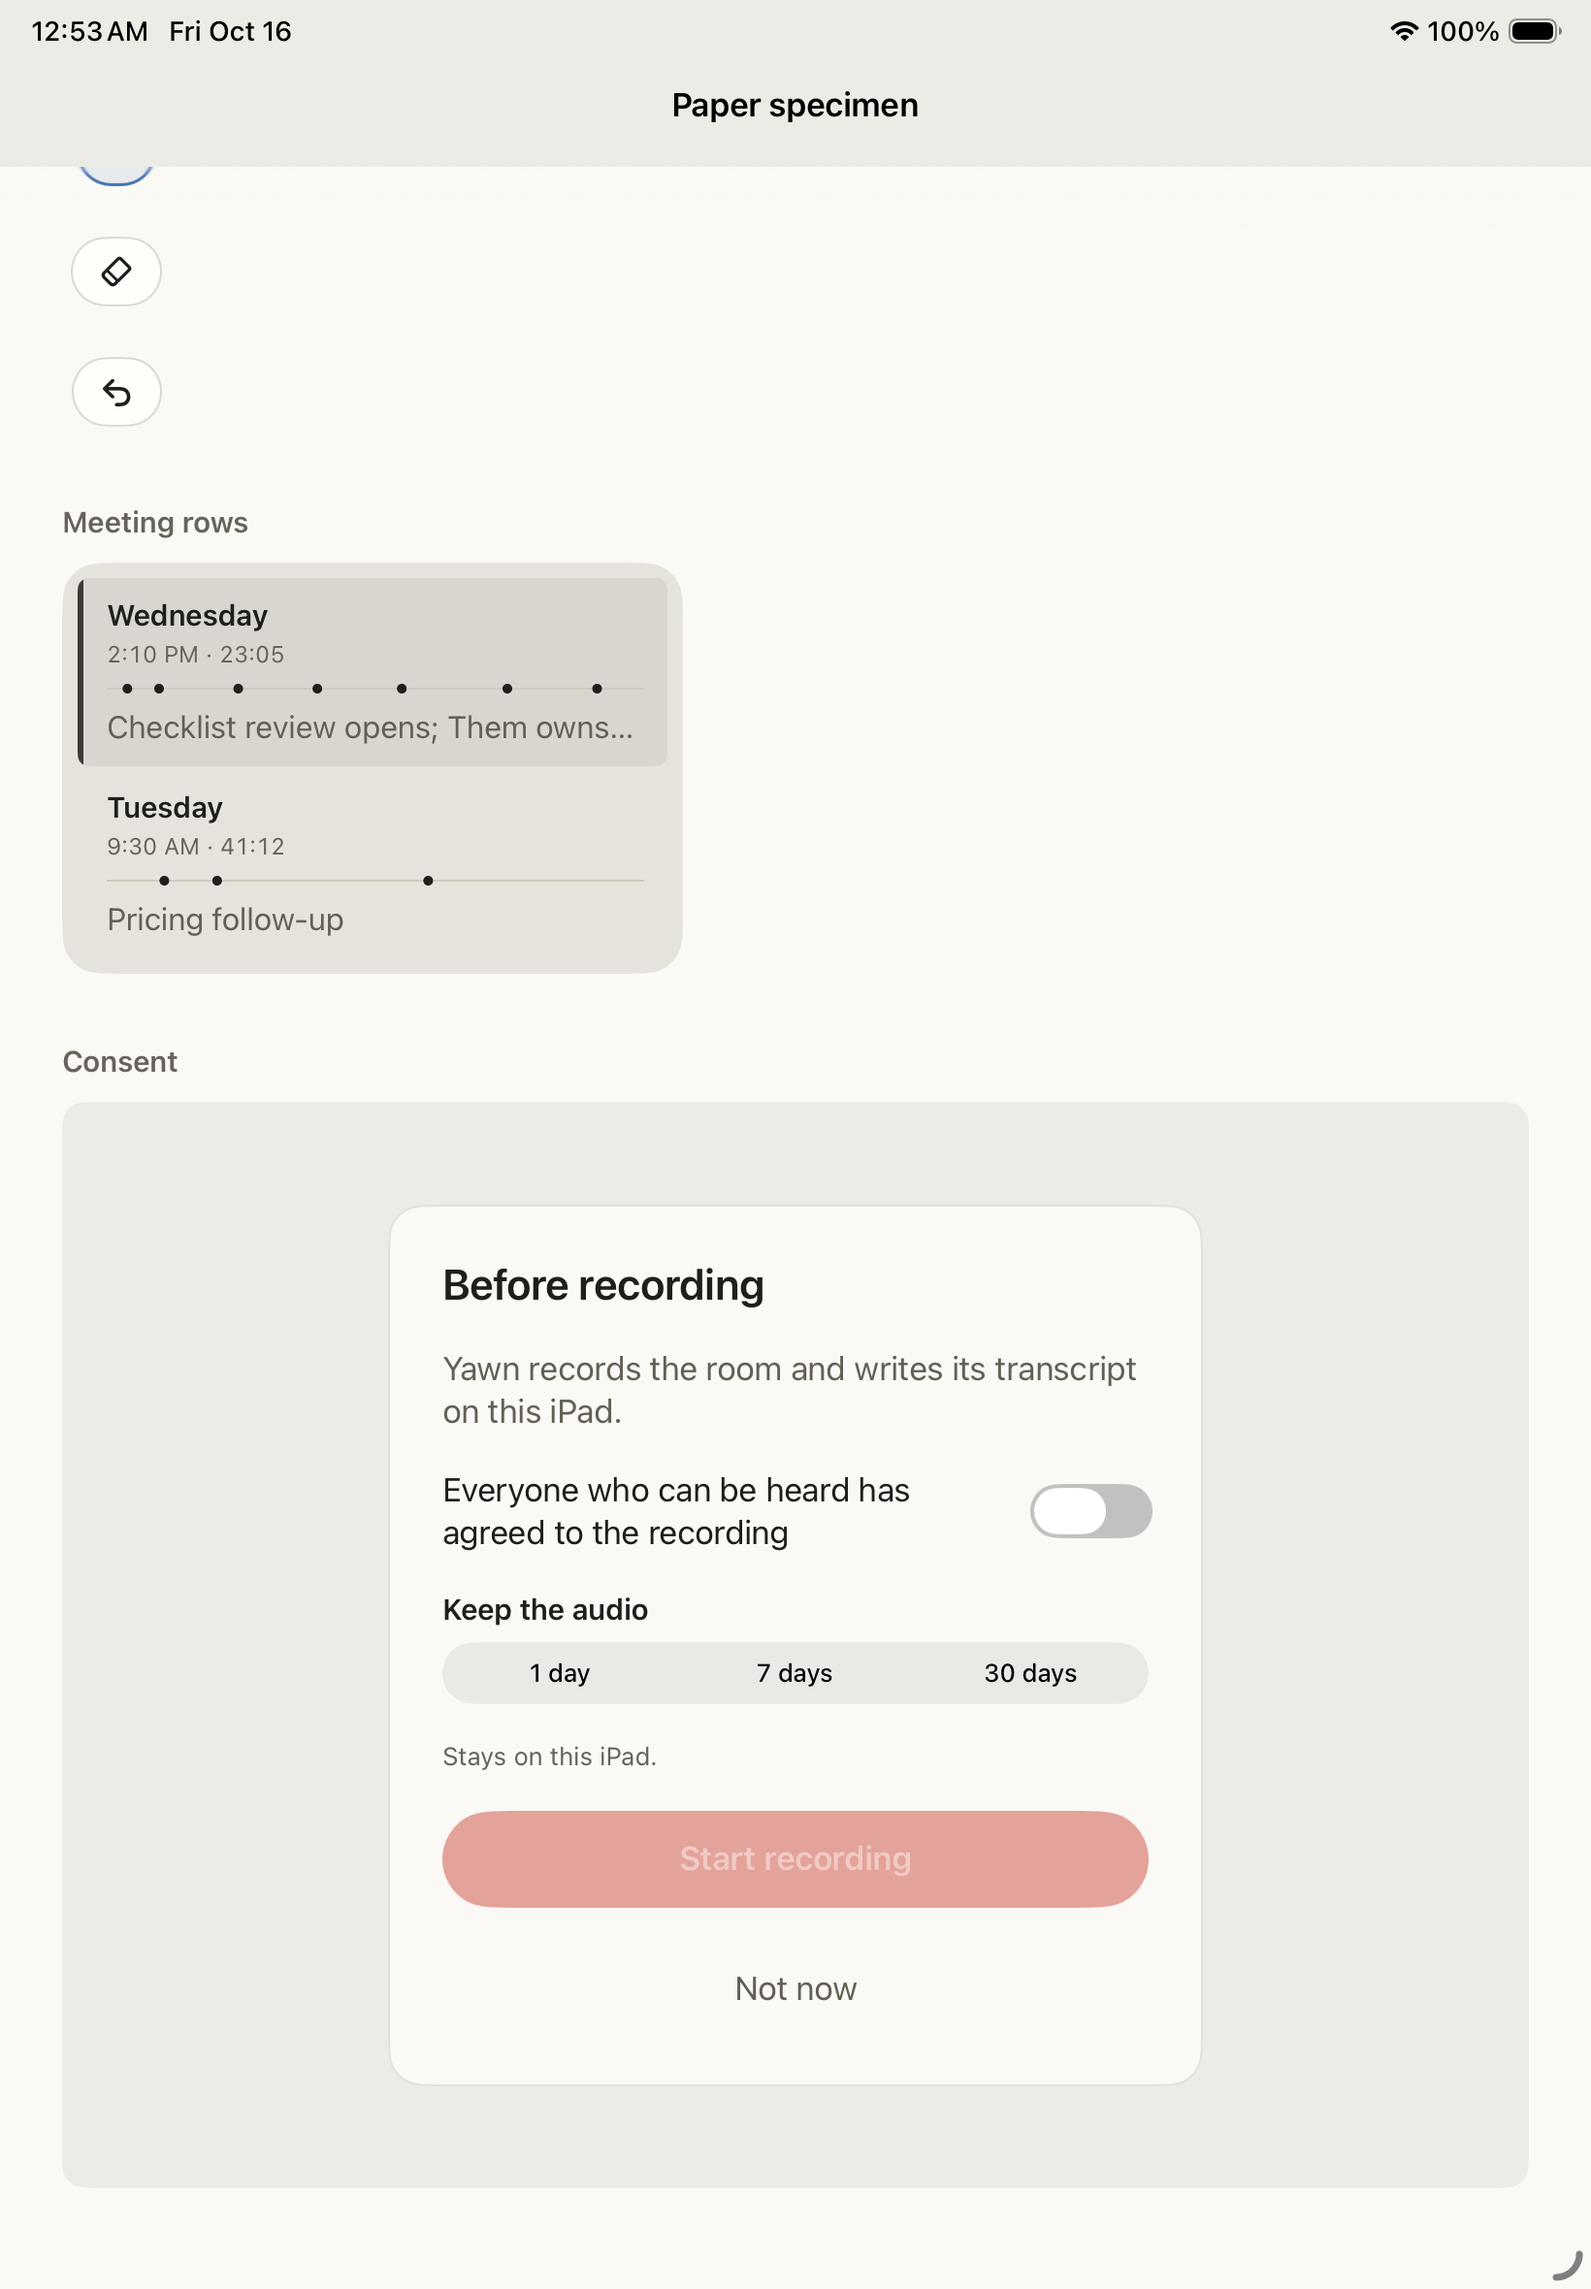
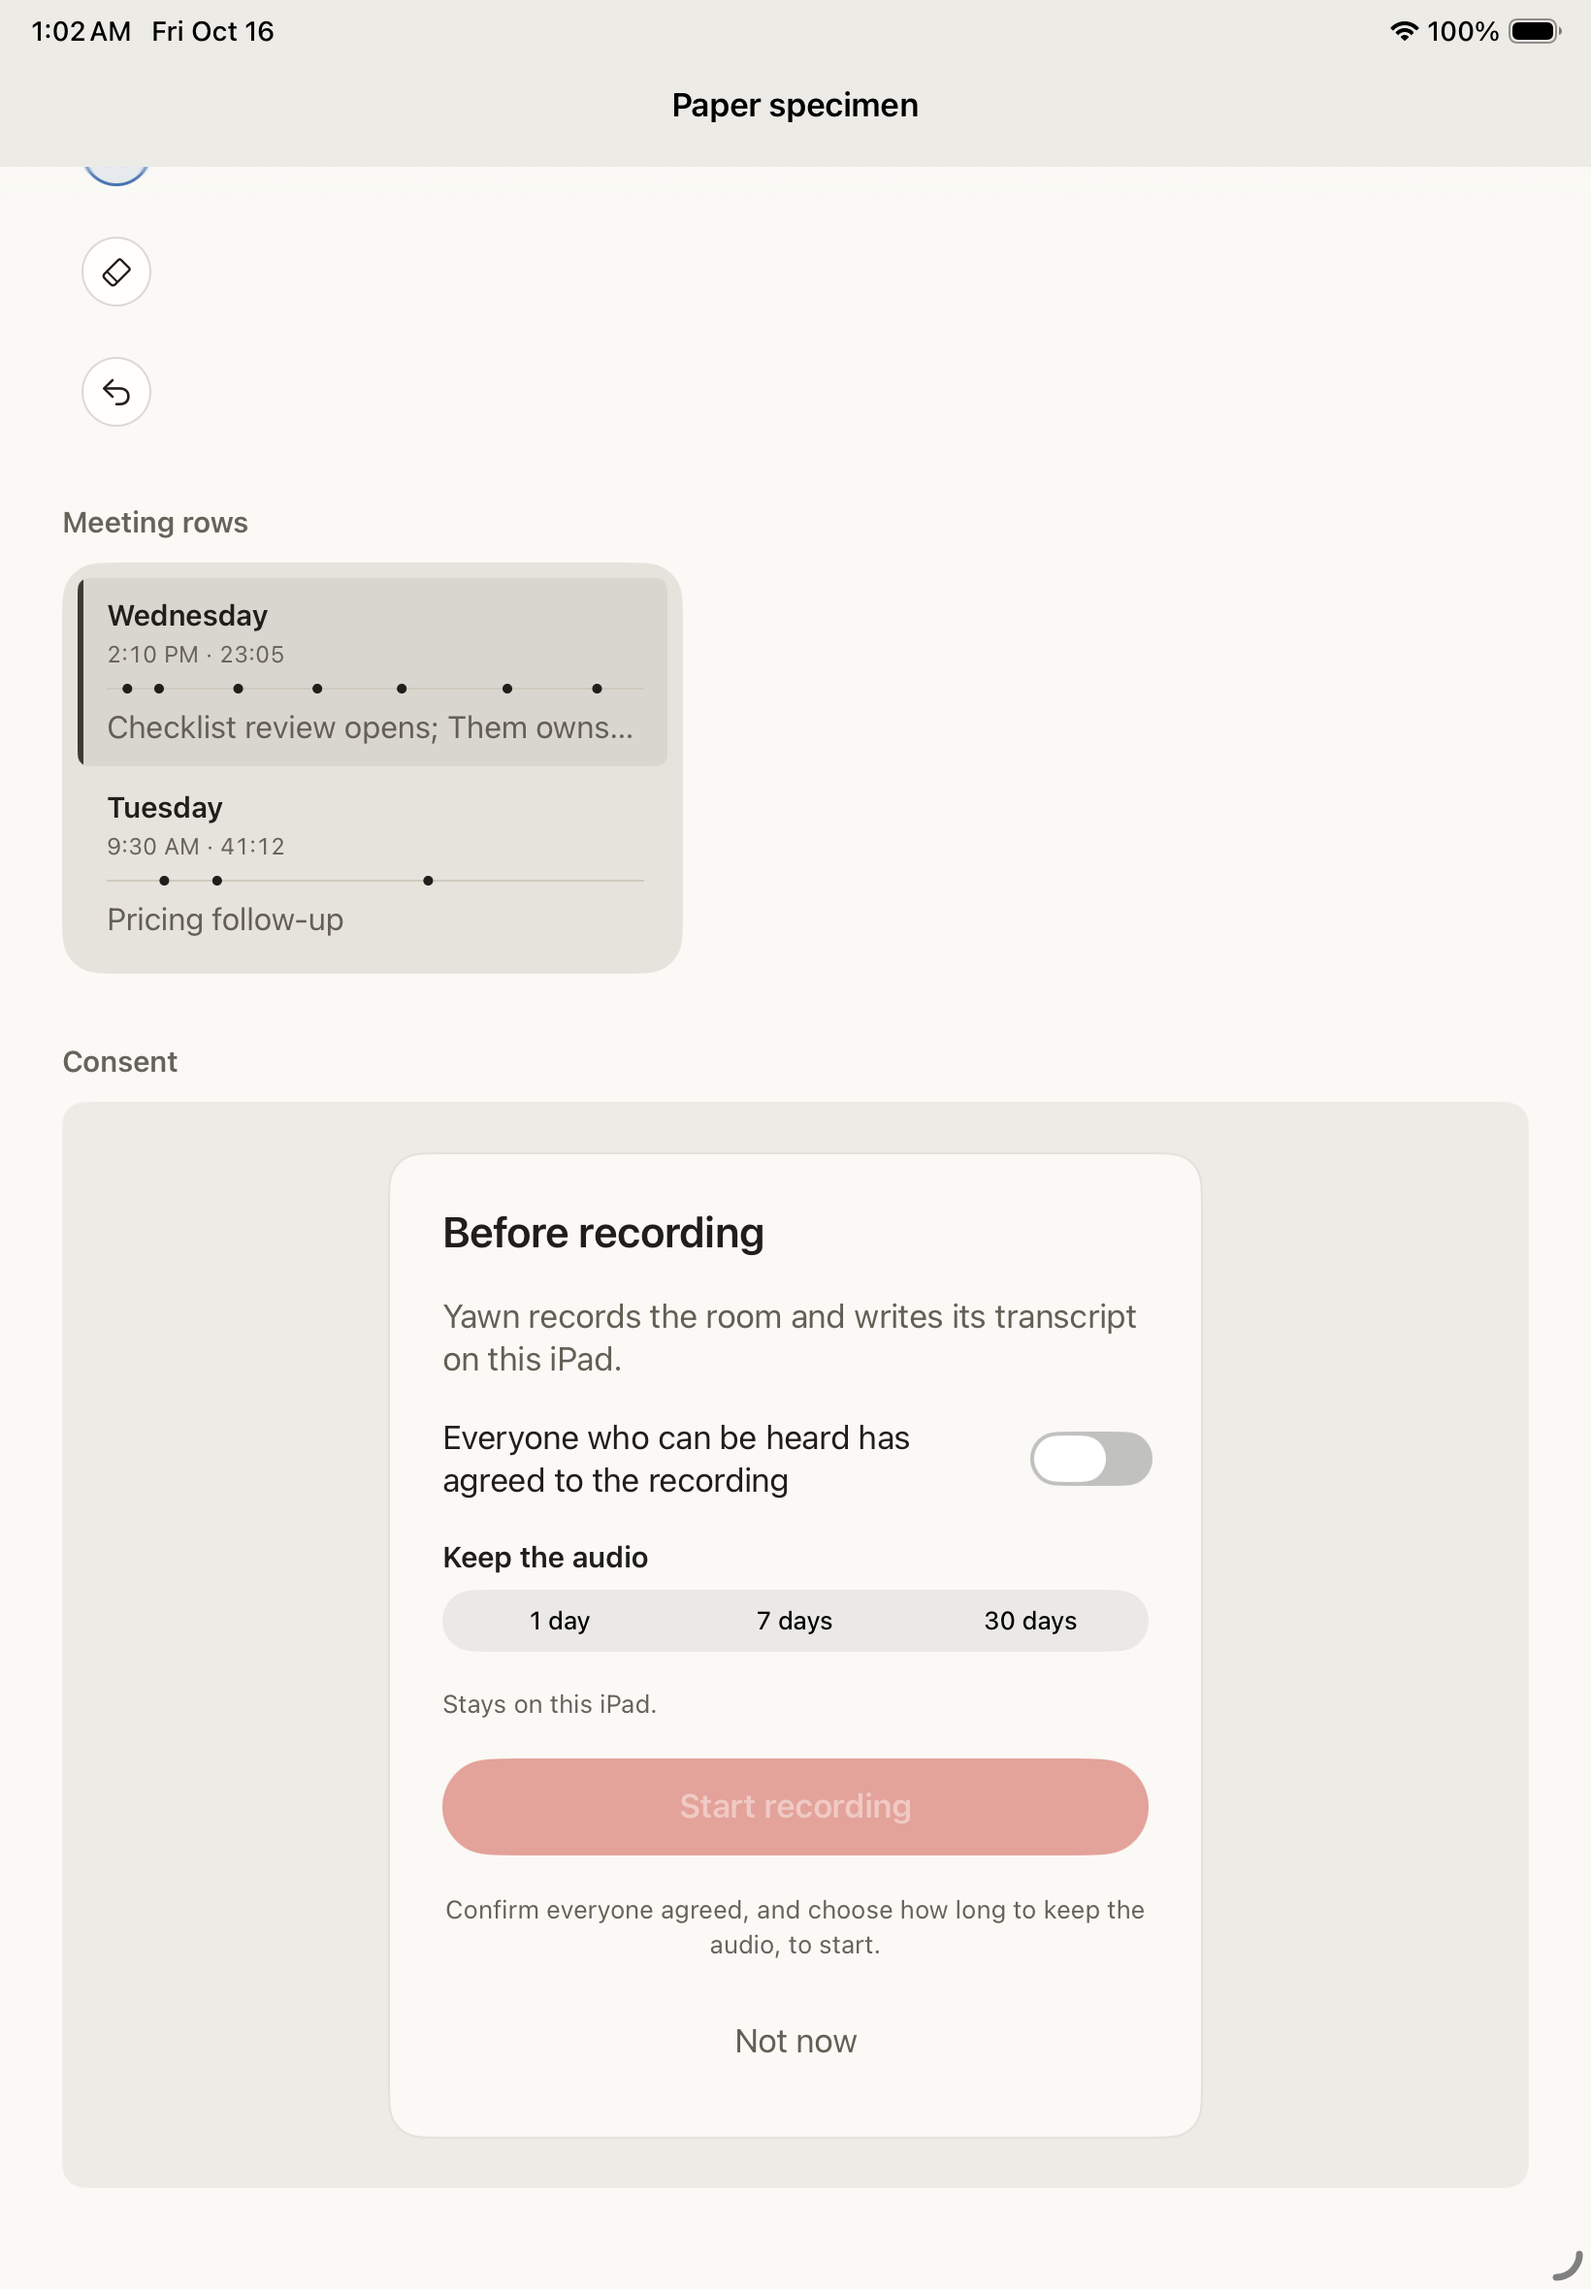
design(ipad): what cold passes 3 and 4 changed on the prepared components
Symbol-only capsules are one round size at every text size (pass 3: the
eraser's capsule grew wider than the pen's at the largest size); the active
tool is bold as well as ringed and tinted; the consent card says under its
faded Start why it waits ("Confirm everyone agreed, and choose how long to
keep the audio, to start."); the consent statement wraps instead of
truncating (pass 4); the specimen page keeps an inline title instead of a
tall empty large-title band. Captures recaptured from this build.

diff --git a/apps/ipad/Yawn/Paper/PaperCapsuleStyle.swift b/apps/ipad/Yawn/Paper/PaperCapsuleStyle.swift
@@ -15,10 +15,13 @@ struct PaperCapsuleStyle: ButtonStyle {
     /// A label color other than the kind's own; Record uses it to keep its
     /// word red on an otherwise plain capsule.
     var labelColor: Color?
+    /// A symbol-only capsule: one fixed round size whatever the symbol's
+    /// width, so the tools in a column match at every text size.
+    var square = false
 
     func makeBody(configuration: Configuration) -> some View {
         configuration.label
-            .paperCapsule(kind, labelColor: labelColor, pressed: configuration.isPressed)
+            .paperCapsule(kind, labelColor: labelColor, square: square, pressed: configuration.isPressed)
             .frame(minHeight: PaperMetrics.touchTarget)
             .contentShape(.rect)
     }
@@ -30,6 +33,7 @@ struct PaperCapsuleStyle: ButtonStyle {
 struct PaperCapsuleModifier: ViewModifier {
     let kind: PaperCapsuleStyle.Kind
     let labelColor: Color?
+    let square: Bool
     let pressed: Bool
 
     @ScaledMetric(relativeTo: .subheadline) private var height = PaperMetrics.capsuleHeight
@@ -38,10 +42,9 @@ struct PaperCapsuleModifier: ViewModifier {
         content
             .font(.subheadline.weight(.semibold))
             .foregroundStyle(labelColor ?? foreground)
-            .padding(.horizontal, PaperMetrics.capsulePadding)
-            // A symbol-only capsule is at least as wide as it is tall, so the
-            // tools in a column keep one width at every text size.
-            .frame(minWidth: height, minHeight: height)
+            .padding(.horizontal, square ? 0 : PaperMetrics.capsulePadding)
+            .frame(width: square ? height : nil, height: square ? height : nil)
+            .frame(minHeight: height)
             .background(fill, in: .capsule)
             .overlay { Capsule().strokeBorder(border, lineWidth: kind == .active ? 1.5 : 1) }
             .opacity(pressed ? 0.8 : 1)
@@ -78,8 +81,9 @@ extension View {
     func paperCapsule(
         _ kind: PaperCapsuleStyle.Kind = .plain,
         labelColor: Color? = nil,
+        square: Bool = false,
         pressed: Bool = false
     ) -> some View {
-        modifier(PaperCapsuleModifier(kind: kind, labelColor: labelColor, pressed: pressed))
+        modifier(PaperCapsuleModifier(kind: kind, labelColor: labelColor, square: square, pressed: pressed))
     }
 }

diff --git a/apps/ipad/Yawn/Recording/ConsentCard.swift b/apps/ipad/Yawn/Recording/ConsentCard.swift
@@ -38,10 +38,14 @@ struct ConsentCard: View {
             Text("Yawn records the room and writes its transcript on this iPad.")
                 .font(.body)
                 .foregroundStyle(Paper.label2)
-            Toggle("Everyone who can be heard has agreed to the recording", isOn: $everyoneAgreed)
-                .font(.body)
-                .foregroundStyle(Paper.label)
-                .tint(Paper.graphite)
+            Toggle(isOn: $everyoneAgreed) {
+                // The consent statement itself: it wraps, never truncates.
+                Text("Everyone who can be heard has agreed to the recording")
+                    .fixedSize(horizontal: false, vertical: true)
+            }
+            .font(.body)
+            .foregroundStyle(Paper.label)
+            .tint(Paper.graphite)
             VStack(alignment: .leading, spacing: 8) {
                 Text("Keep the audio")
                     .font(.subheadline.weight(.semibold))
@@ -62,6 +66,15 @@ struct ConsentCard: View {
             Button("Start recording", action: begin)
                 .buttonStyle(PaperStartButtonStyle())
                 .disabled(!canStart)
+            if !canStart {
+                // Why Start is faded, in one line, since a faded button alone
+                // says only that something is missing.
+                Text(everyoneAgreed ? "Choose how long to keep the audio to start." : "Confirm everyone agreed, and choose how long to keep the audio, to start.")
+                    .font(.footnote)
+                    .foregroundStyle(Paper.label3)
+                    .frame(maxWidth: .infinity)
+                    .multilineTextAlignment(.center)
+            }
             Button(action: notNow) {
                 Text("Not now")
                     .font(.body)

diff --git a/apps/ipad/Yawn/Page/ToolCapsule.swift b/apps/ipad/Yawn/Page/ToolCapsule.swift
@@ -12,7 +12,9 @@ struct ToolCapsule: View {
     var body: some View {
         Button(name, systemImage: symbol, action: action)
             .labelStyle(.iconOnly)
-            .buttonStyle(PaperCapsuleStyle(kind: active ? .active : .plain))
+            // The active tool is heavier as well as tinted and ringed.
+            .fontWeight(active ? .bold : .regular)
+            .buttonStyle(PaperCapsuleStyle(kind: active ? .active : .plain, square: true))
             .accessibilityAddTraits(active ? .isSelected : [])
     }
 }

diff --git a/apps/ipad/Yawn/Paper/PaperSpecimen.swift b/apps/ipad/Yawn/Paper/PaperSpecimen.swift
@@ -60,6 +60,7 @@ struct PaperSpecimen: View {
             }
             .background(Paper.page)
             .navigationTitle("Paper specimen")
+            .navigationBarTitleDisplayMode(.inline)
             .toolbarBackground(Paper.windowChrome, for: .navigationBar)
             .toolbarBackgroundVisibility(.visible, for: .navigationBar)
         }
